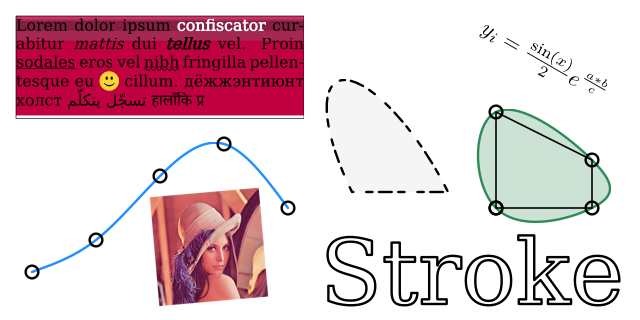
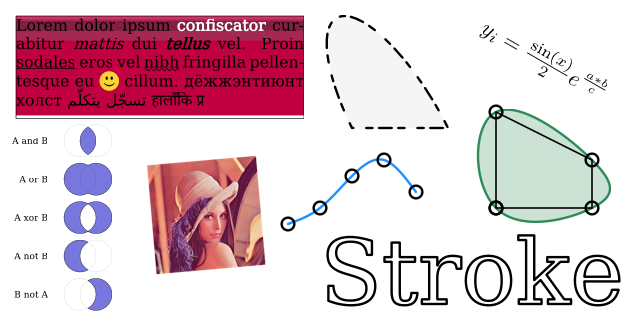
Update preview

diff --git a/preview.go b/preview.go
@@ -144,7 +144,7 @@ func DrawPreviewWithAssets(ctx *Context, latin, arabic, devanagari, lenna []byte
 		return err
 	}
 	ctx.SetFillColor(Whitesmoke)
-	ctx.DrawPath(110, 40, ellipse)
+	ctx.DrawPath(110, 60, ellipse)
 
 	ctx.SetFillColor(Transparent)
 	ctx.SetStrokeColor(Black)
@@ -152,8 +152,7 @@ func DrawPreviewWithAssets(ctx *Context, latin, arabic, devanagari, lenna []byte
 	ctx.SetStrokeCapper(RoundCap)
 	ctx.SetStrokeJoiner(RoundJoin)
 	ctx.SetDashes(0.0, 2.0, 4.0, 2.0, 2.0, 4.0, 2.0)
-	//ellipse = ellipse.Dash(0.0, 2.0, 4.0, 2.0).Stroke(0.5, RoundCap, RoundJoin)
-	ctx.DrawPath(110, 40, ellipse)
+	ctx.DrawPath(110, 60, ellipse)
 	ctx.SetStrokeColor(Transparent)
 	ctx.SetDashes(0.0)
 
@@ -164,7 +163,7 @@ func DrawPreviewWithAssets(ctx *Context, latin, arabic, devanagari, lenna []byte
 	}
 	ctx.Push()
 	ctx.Rotate(5)
-	ctx.DrawImage(50.0, 0.0, img, 15)
+	ctx.DrawImage(50.0, 10.0, img, 15)
 	ctx.Pop()
 
 	// Draw an closed set of points being smoothed
@@ -194,15 +193,40 @@ func DrawPreviewWithAssets(ctx *Context, latin, arabic, devanagari, lenna []byte
 	// Draw a open set of points being smoothed
 	polyline = &Polyline{}
 	polyline.Add(0.0, 0.0)
-	polyline.Add(20.0, 10.0)
-	polyline.Add(40.0, 30.0)
-	polyline.Add(60.0, 40.0)
-	polyline.Add(80.0, 20.0)
+	polyline.Add(10.0, 5.0)
+	polyline.Add(20.0, 15.0)
+	polyline.Add(30.0, 20.0)
+	polyline.Add(40.0, 10.0)
 	ctx.SetStrokeColor(Dodgerblue)
-	ctx.DrawPath(10, 15, polyline.Smoothen())
+	ctx.DrawPath(95, 30, polyline.Smoothen())
 	ctx.SetStrokeColor(Black)
 	for _, coord := range polyline.Coords() {
-		ctx.DrawPath(10, 15, Circle(2.0).Translate(coord.X, coord.Y))
+		ctx.DrawPath(95, 30, Circle(2.0).Translate(coord.X, coord.Y))
 	}
+
+	// Draw path boolean operations
+	a := Circle(5.0)
+	b := Circle(5.0).Translate(5.0, 0.0)
+	a = a.Flatten()
+	b = b.Flatten()
+	ctx.SetFillColor(Transparent)
+	ctx.SetStrokeColor(Hex("#CCC"))
+	ctx.SetStrokeWidth(0.1)
+	face = fontLatin.Face(8.0, Black, FontRegular, FontNormal)
+	titles := []string{"A and B", "A or B", "A xor B", "A not B", "B not A"}
+	for i := 0; i < 5; i++ {
+		y := 56.0 - 12.0*float64(i)
+		ctx.DrawText(15.0, y, NewTextBox(face, titles[i], 0.0, 0.0, Right, Middle, 0.0, 0.0))
+		ctx.DrawPath(25.0, y, a)
+		ctx.DrawPath(25.0, y, b)
+	}
+	ctx.SetFillColor(Hex("#00C8"))
+	ctx.SetStrokeColor(Black)
+	ctx.SetStrokeWidth(0.1)
+	ctx.DrawPath(25.0, 56.0, a.And(b))
+	ctx.DrawPath(25.0, 44.0, a.Or(b))
+	ctx.DrawPath(25.0, 32.0, a.Xor(b))
+	ctx.DrawPath(25.0, 20.0, a.Not(b))
+	ctx.DrawPath(25.0, 8.0, b.Not(a))
 	return nil
 }
